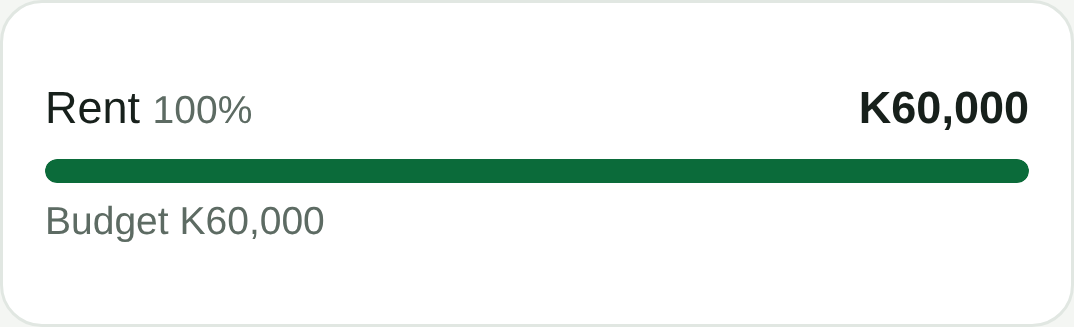
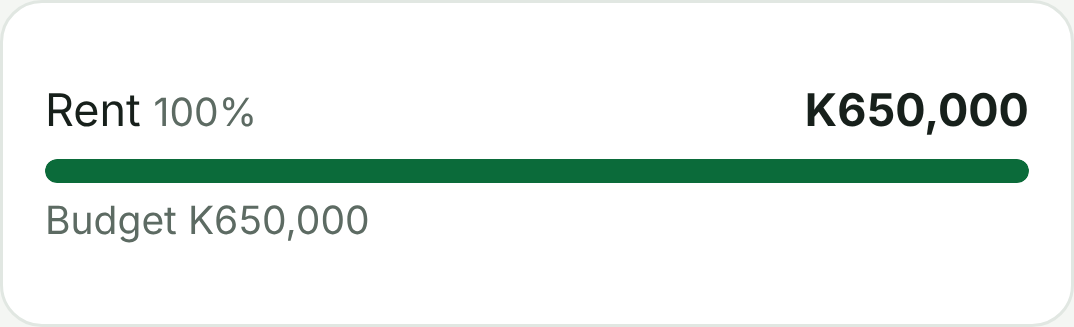
Twizzy: big, real Malawian money for an upper-middle-class audience
- personas.mjs: a senior manager (K1.45M + broiler side business), a
  business owner (K3M, two shops + minibus), parents of three (two
  salaries + tailoring) and a young professional (K620k + phone
  accessories), with real 2026 Malawi prices for rent, fuel, ESCOM,
  fibre and school fees, goals of K1.2-15M and loans of K400k-5M.
- sample-data.mjs reads the personas; fresh_screens.sh captures each into
  assets/app/personas/<name>/ with numbers.txt; capture.cjs finds cards
  by each persona's own names.
- Playbook 1b: audience, money scale, side businesses, real prices
  checked every Monday.

Claude-Session: https://claude.ai/code/session_01G6W2XbPEsjTecZqqyKD6wE

Changed region(s): [[0.0307, 0.6116, 0.3687, 0.7339], [0.7374, 0.2752, 0.9525, 0.3976], [0.0307, 0.2752, 0.2458, 0.3976]]

diff --git a/marketing/TWIZZY.md b/marketing/TWIZZY.md
@@ -32,9 +32,17 @@ Ndalama ("money" in Chichewa) is a free money manager for Malawi. Use only these
 
 Never promise profits, savings amounts, loans, interest, or financial outcomes. Ndalama tracks money; it does not lend, invest or give financial advice.
 
+## 1b. Audience and money (the owner's rules)
+
+- **Who Ndalama is for:** Malawi's middle and upper class: corporate staff in offices, business owners and millionaires, parents, young professionals. Most also run a **side business** (poultry, a minibus, a shop, tailoring, phone accessories). Show that income too.
+- **Big, aspirational, believable money.** Ndalama is a serious app: never make small sums the hero of a video (no K3,500 minibus fares or K250,000 salaries in the spotlight). Typical amounts: salaries K600,000–3,000,000 a month, savings goals K2,000,000–15,000,000 (a car, land, a second shop, school fees for the year), loans K400,000–5,000,000, rent K220,000–900,000.
+- **Use the four personas** in `studio/personas.mjs` (senior manager, business owner, parents of three, young professional). Pick the one who fits each idea, and use their screens (`assets/app/personas/<name>/`) and their numbers (`numbers.txt` there).
+- **Know the real economy.** Prices in `personas.mjs` are real Malawi prices (rent from listings, fuel about K5,600 a litre, ESCOM about K143 a unit, TNM home fibre from K57,000, private school fees K1–1.7M a term and up to K4.9–6.5M at international schools). Every Monday, while researching ideas, check the news for changes (fuel, ESCOM and water tariffs, the kwacha rate, inflation, maize prices, school fees) and update `personas.mjs` with the source in a comment. Never show prices that are years out of date.
+- **Aspirational, not boastful:** respect people with less, and never mock anyone's money situation.
+
 ## 2. Voice
 
-Friendly, warm, practical, proudly Malawian. Short sentences. A little Chichewa is welcome ("Moni!", "Zikomo!") with English alongside. Use kwacha amounts people recognise (K250,000 salary, K3,500 minibus, K6,000 water bill). Follow Settings → tone, languages, hashtags and "never mention".
+Friendly, warm, practical, proudly Malawian. Short sentences. A little Chichewa is welcome ("Moni!", "Zikomo!") with English alongside. Use kwacha amounts that fit the audience (§1b): K1,450,000 salary, K650,000 rent, a K9,000,000 car goal. Follow Settings → tone, languages, hashtags and "never mention".
 
 ## 3. Each run, in order
 
@@ -47,7 +55,7 @@ Friendly, warm, practical, proudly Malawian. Short sentences. A little Chichewa 
    - `inbox` items with `status: approved`: send the reply where possible, set `status: sent`.
    - New `references` (`status: new`): study each (§4.1), write what you learned in `learned`, set `status: studied`.
 3. **Plan:** keep the week's posts in line with Settings → frequency. **Every Monday, propose 4–5 new `concepts`** (never more than 5) as `status: proposed`:
-   - First search the web for what is happening in Malawi and the world that week: prices (fuel, maize, kwacha rate), payday and school calendar, holidays and festivals, football, viral TikTok formats and sounds. Note the source in each concept's `pitch`.
+   - First search the web for what is happening in Malawi and the world that week (and update prices in `personas.mjs`, §1b): prices (fuel, maize, kwacha rate), payday and school calendar, holidays and festivals, football, viral TikTok formats and sounds. Note the source in each concept's `pitch`.
    - Tie each idea to something relatable that week, and vary them: tips, feature demos, relatable money moments, seasonal campaigns, challenges, trends.
    - **Every idea is a long-form concept for a 45 s – 1:45 video** (see §4.0), not a quick 10–20 s clip. Write the `pitch` as a short story outline (hook → problem → how Ndalama helps, with 3–5 real app moments → payoff → call to action) and put the planned length in `format`, e.g. "75–90 s vertical story, voiceover".
    - Use only §1 facts about the app. Never make light of hardship, disasters or politics.
@@ -132,10 +140,10 @@ Videos always show the app **as it is today**: the current month, today's date, 
 ```bash
 bash marketing/studio/fresh_screens.sh            # today in Malawi; or give a date: … 2026-11-20
 ```
-It builds the current app, loads the sample month (`studio/sample-data.mjs`, a K250,000 salary, with all dates relative to the day) and captures every screen and card into `marketing/assets/app`. It writes the numbers the app shows into `marketing/assets/app/numbers.txt`. A card that isn't on today's screens (e.g. no goal warning early in the month) is removed rather than left stale.
+It builds the current app and, for each persona in `studio/personas.mjs`, loads their month (dates relative to the day) and captures every screen and card into `marketing/assets/app/personas/<name>/` with the numbers the app shows in `numbers.txt` there. The senior manager's set is also copied to `marketing/assets/app`. A card that isn't on today's screens (e.g. no goal warning early in the month) is removed rather than left stale.
 
 - **Every number in a video comes from `numbers.txt`** or from running the app's own calculations (`src/logic.js`) on the same sample month. Never type a number from an older video or invent one.
-- To tell a different story (a goal slipping, a bill due), adjust `sample-data.mjs` and run `fresh_screens.sh` again; dates must stay relative to today.
+- To tell a different story (a goal slipping, a bill due), adjust the persona in `personas.mjs` and run `fresh_screens.sh` again; dates stay relative to today.
 - Never show a screen from another month in a new video.
 
 ### 4.4 Sound
